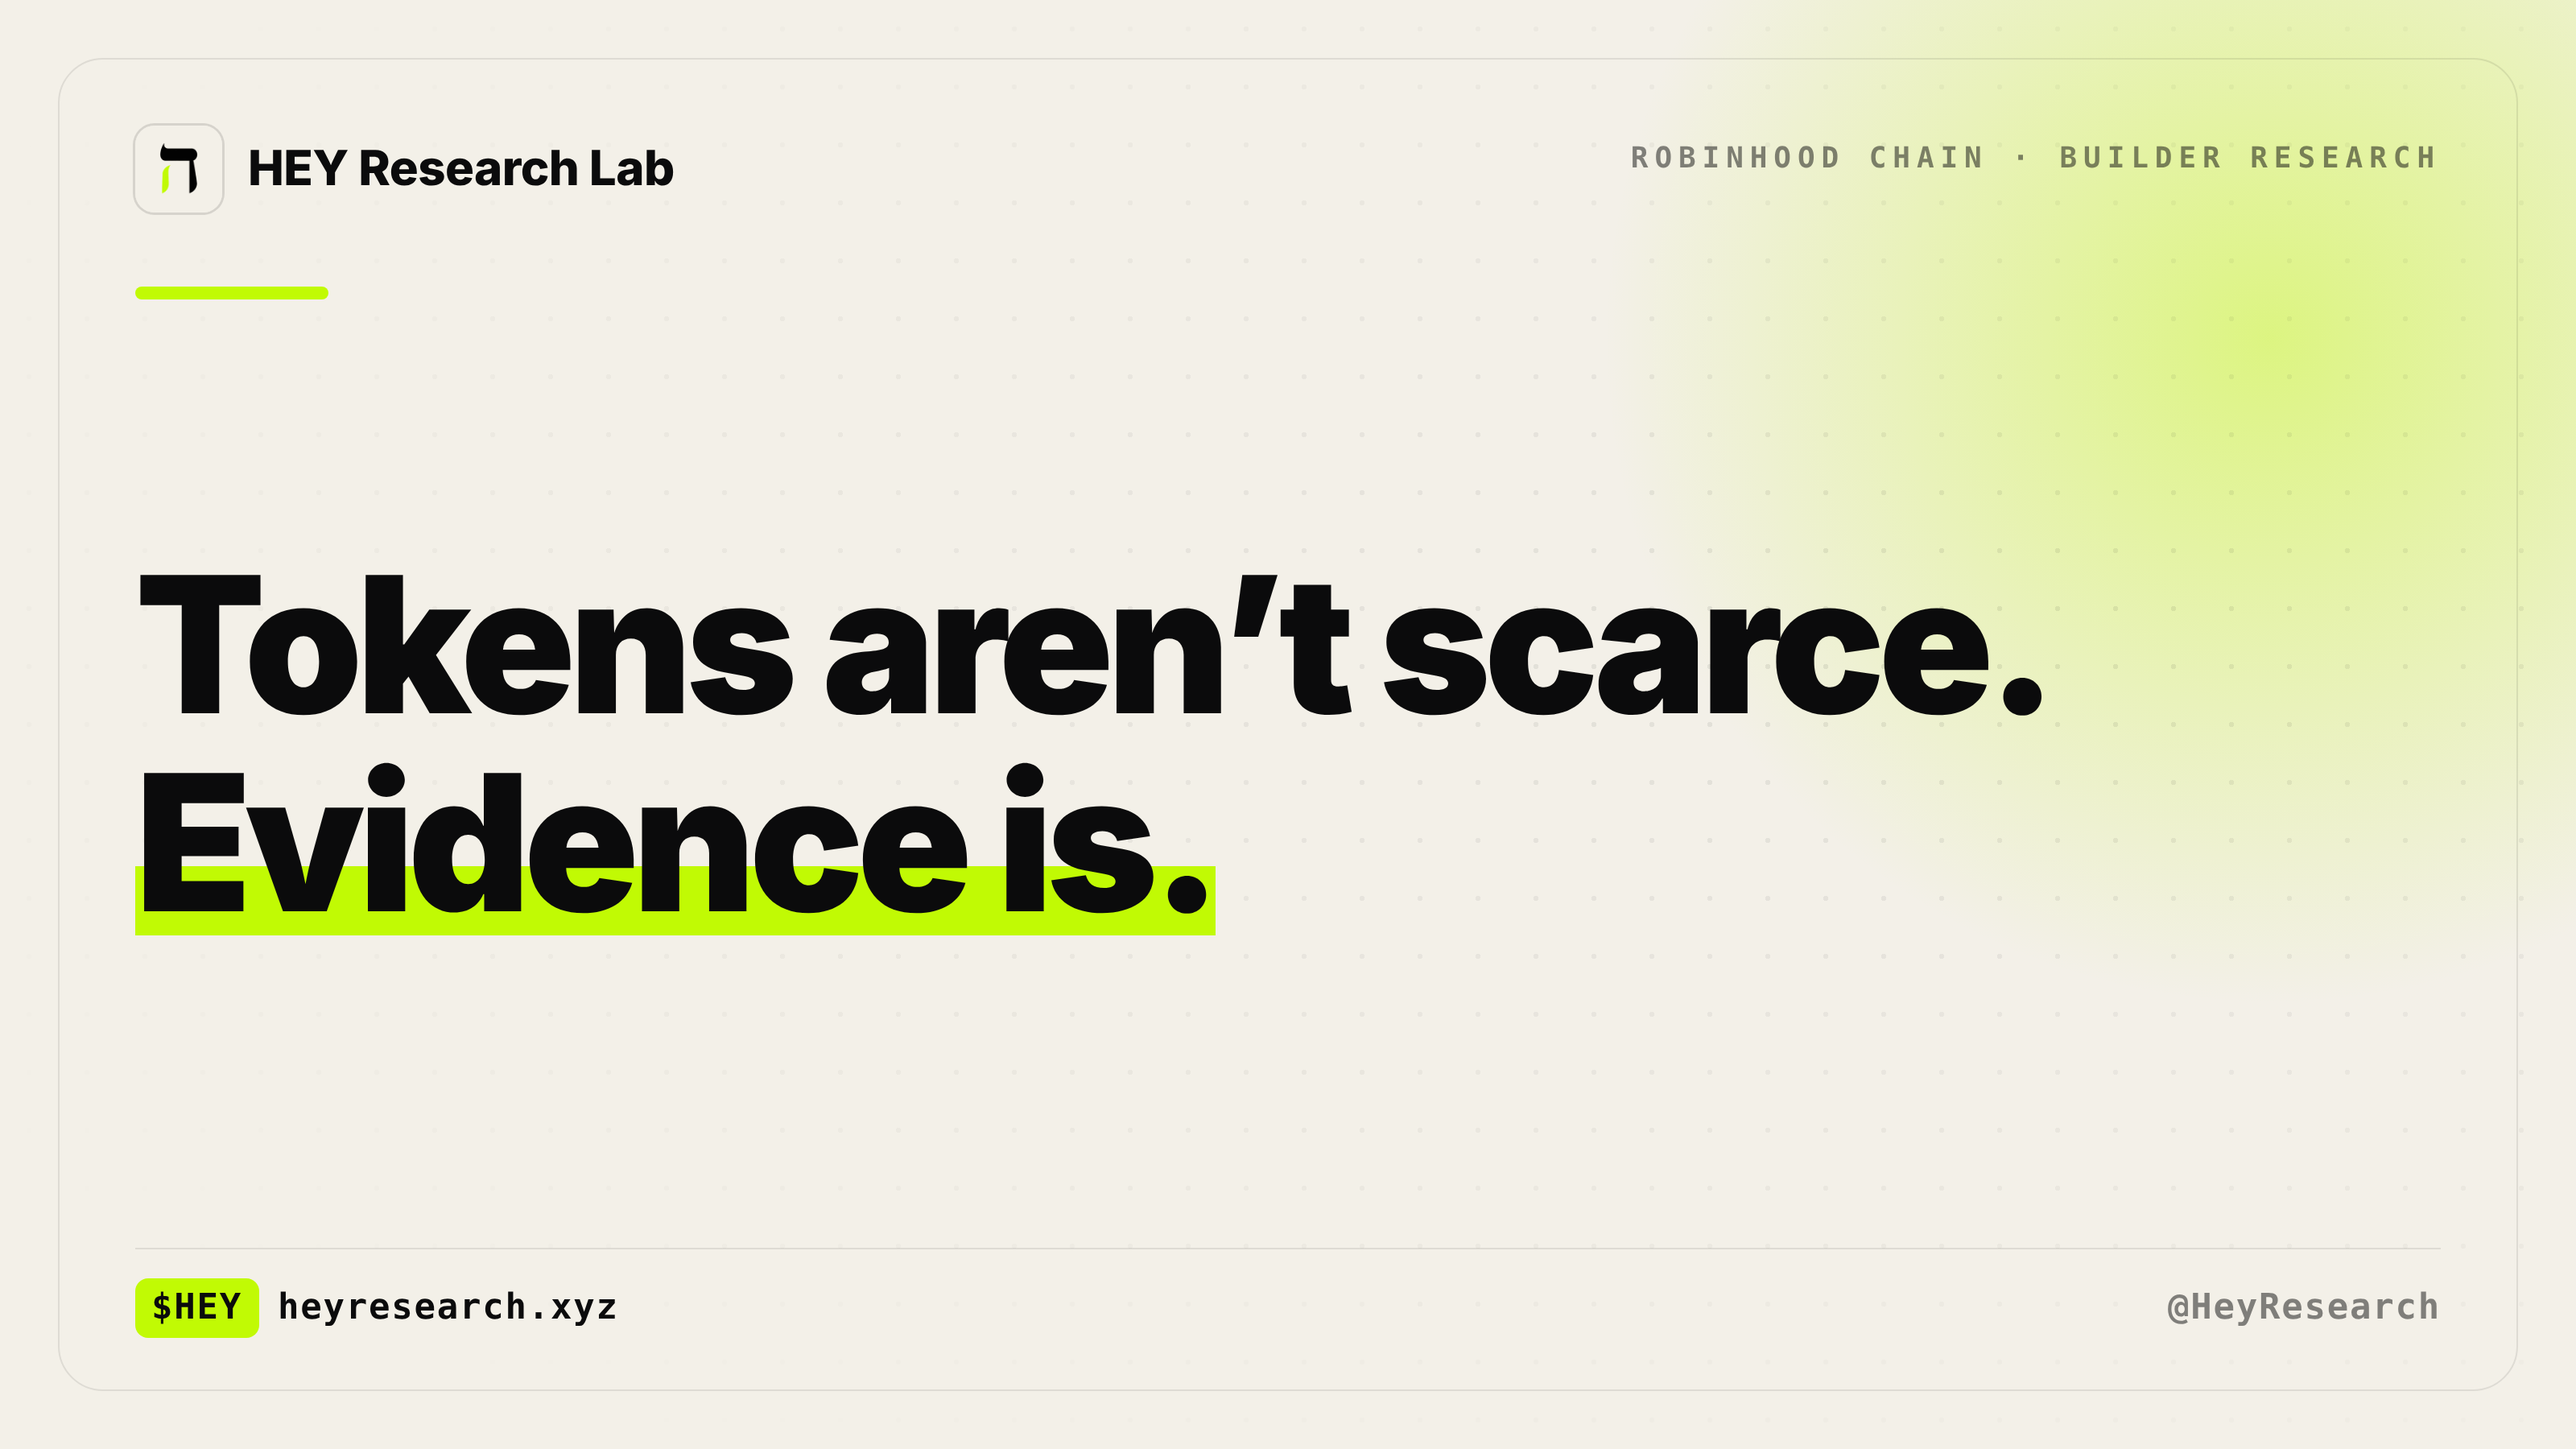
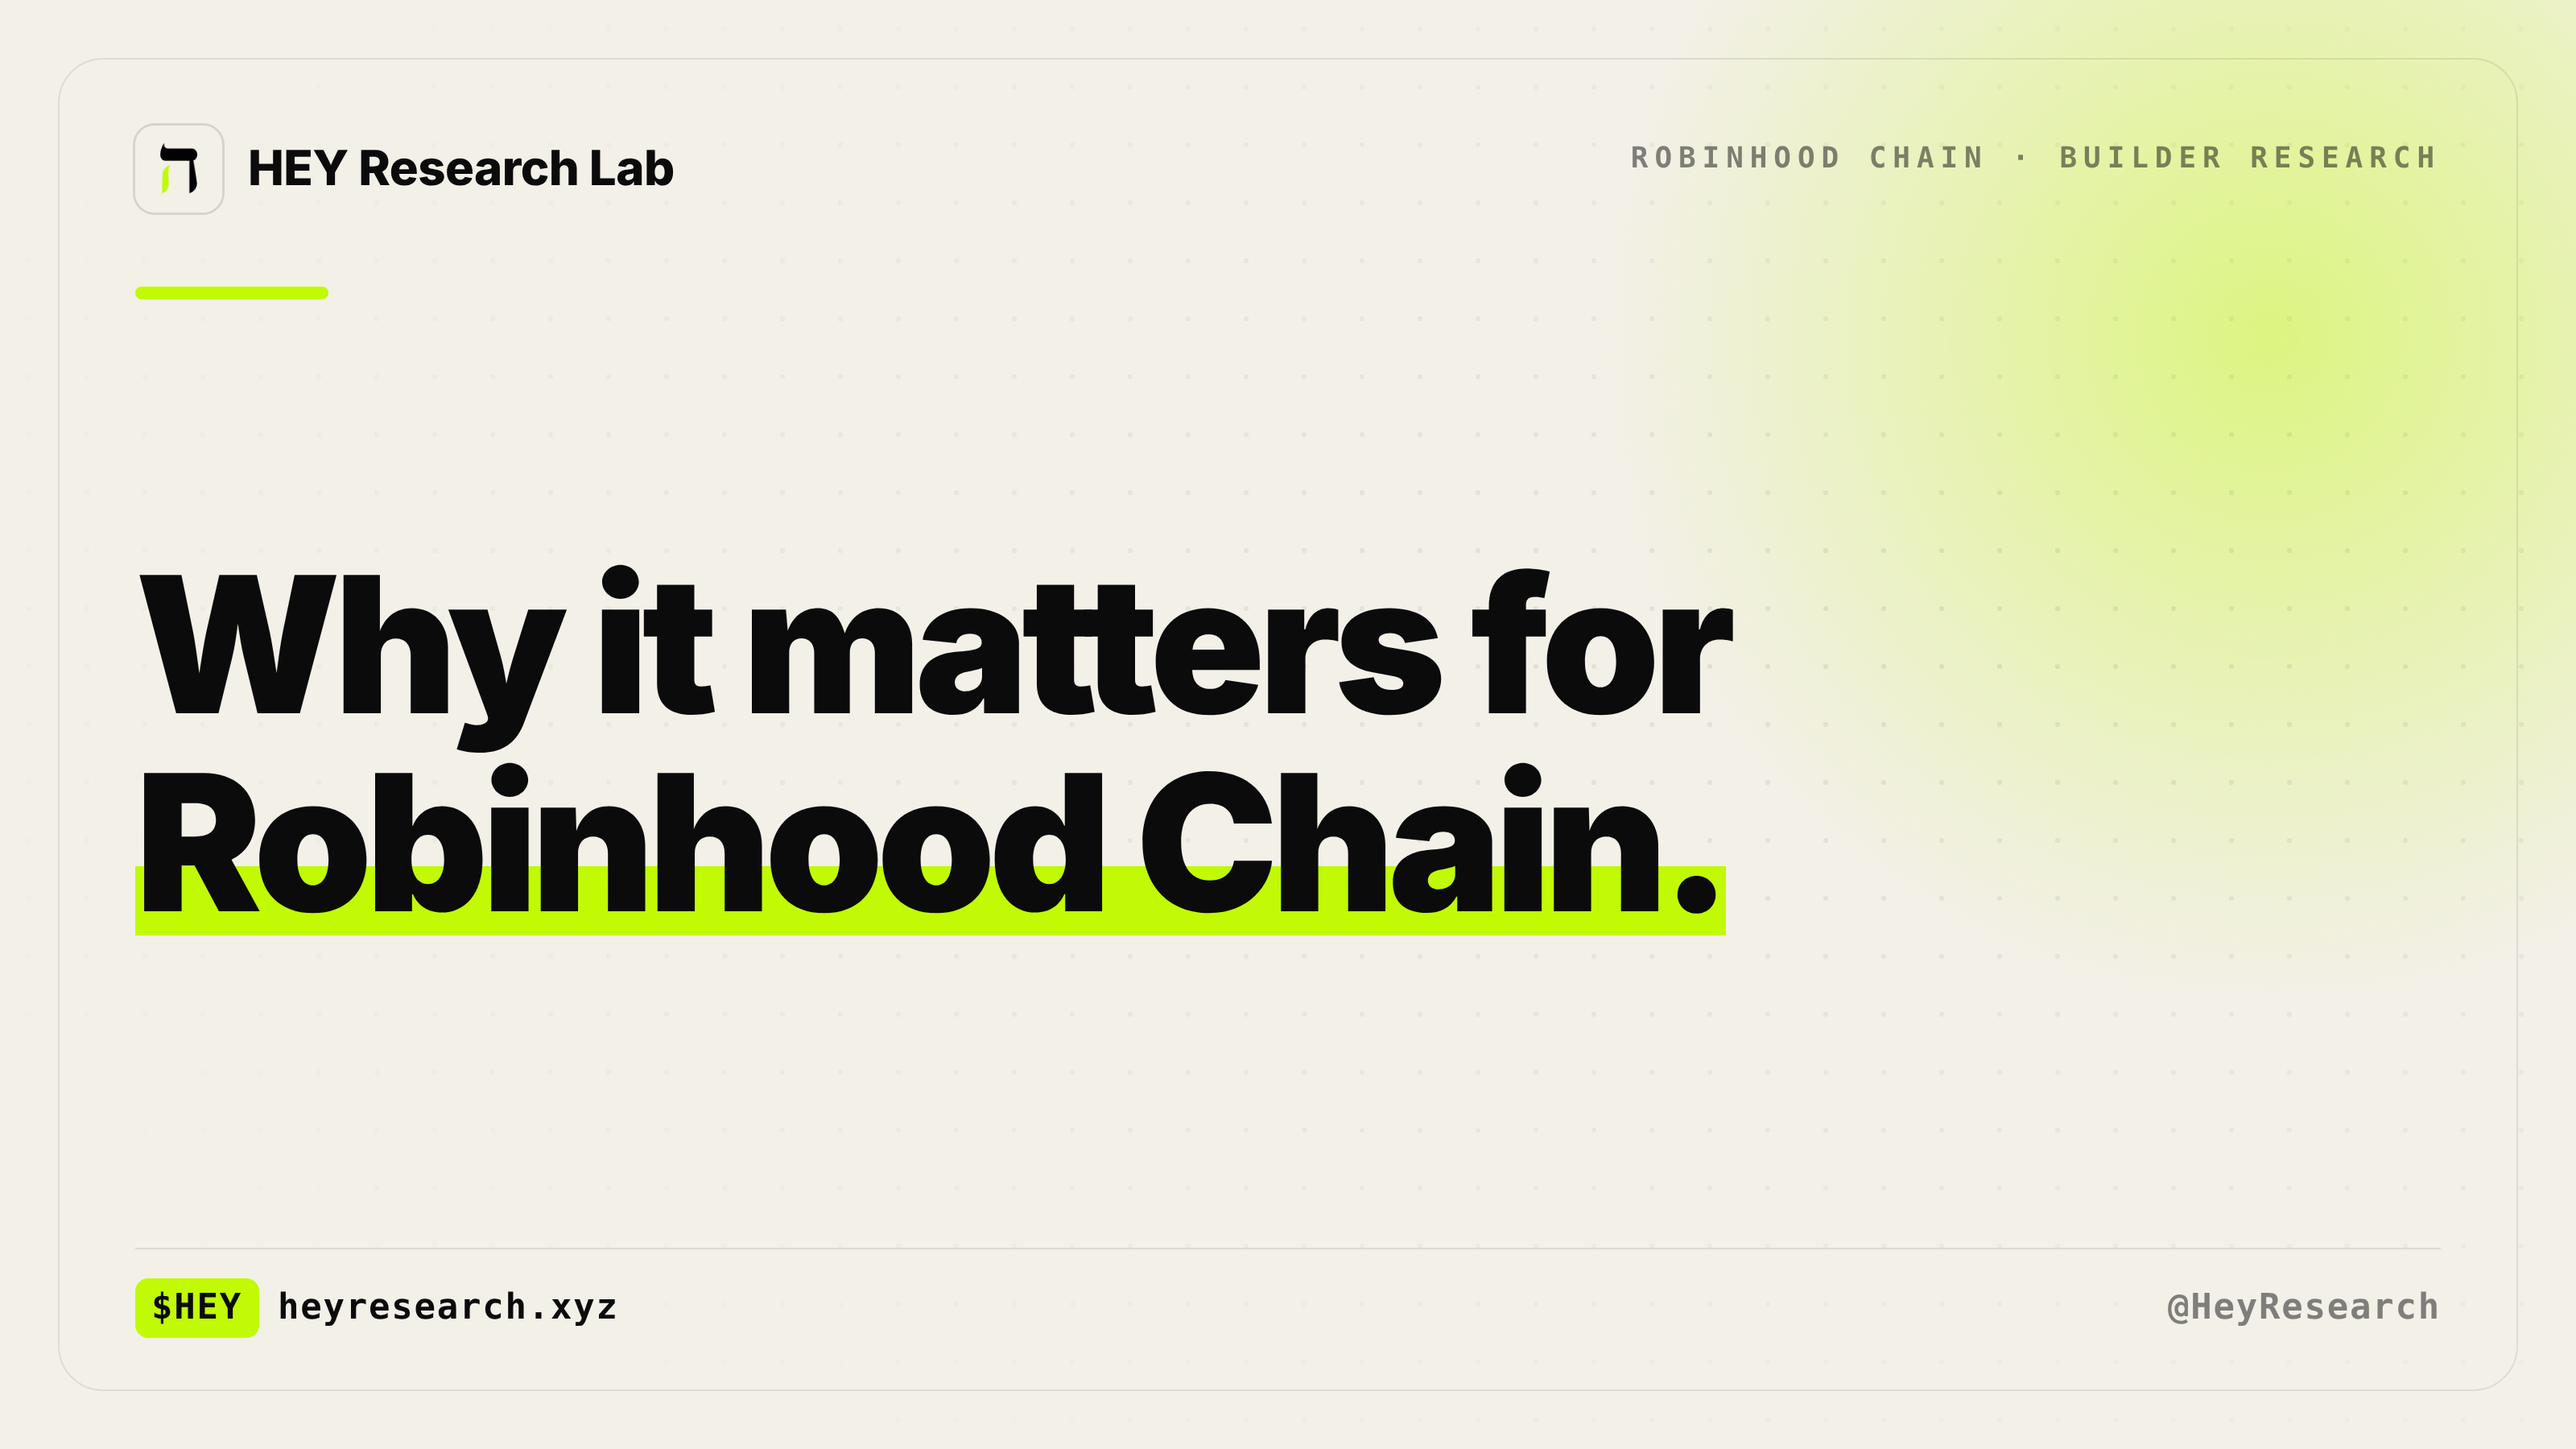
Post 6 image: retitle to why it matters for Robinhood Chain
Claude-Session: https://claude.ai/code/session_015zbJBZP9UvfSnxbfXEhggB

Changed region(s): [[0.0312, 0.3733, 0.8125, 0.6533]]

diff --git a/marketing/hey-research-lab-film/thread-images/post6.html b/marketing/hey-research-lab-film/thread-images/post6.html
@@ -26,7 +26,7 @@ body.light #head img{box-shadow:0 0 0 1.5px rgba(11,11,12,.12)}
 <div id="head"><img src="hey_icon.png">HEY Research Lab</div>
 <div id="tag">ROBINHOOD CHAIN · BUILDER RESEARCH</div>
 <div id="bar"></div>
-<div id="t">Tokens aren’t scarce.<br><em>Evidence is.</em></div>
+<div id="t">Why it matters for<br><em>Robinhood Chain.</em></div>
 <div id="rule"></div>
 <div id="foot"><div class="l"><b>$HEY</b>heyresearch.xyz</div><div class="r">@HeyResearch</div></div>
 </div></body></html>
